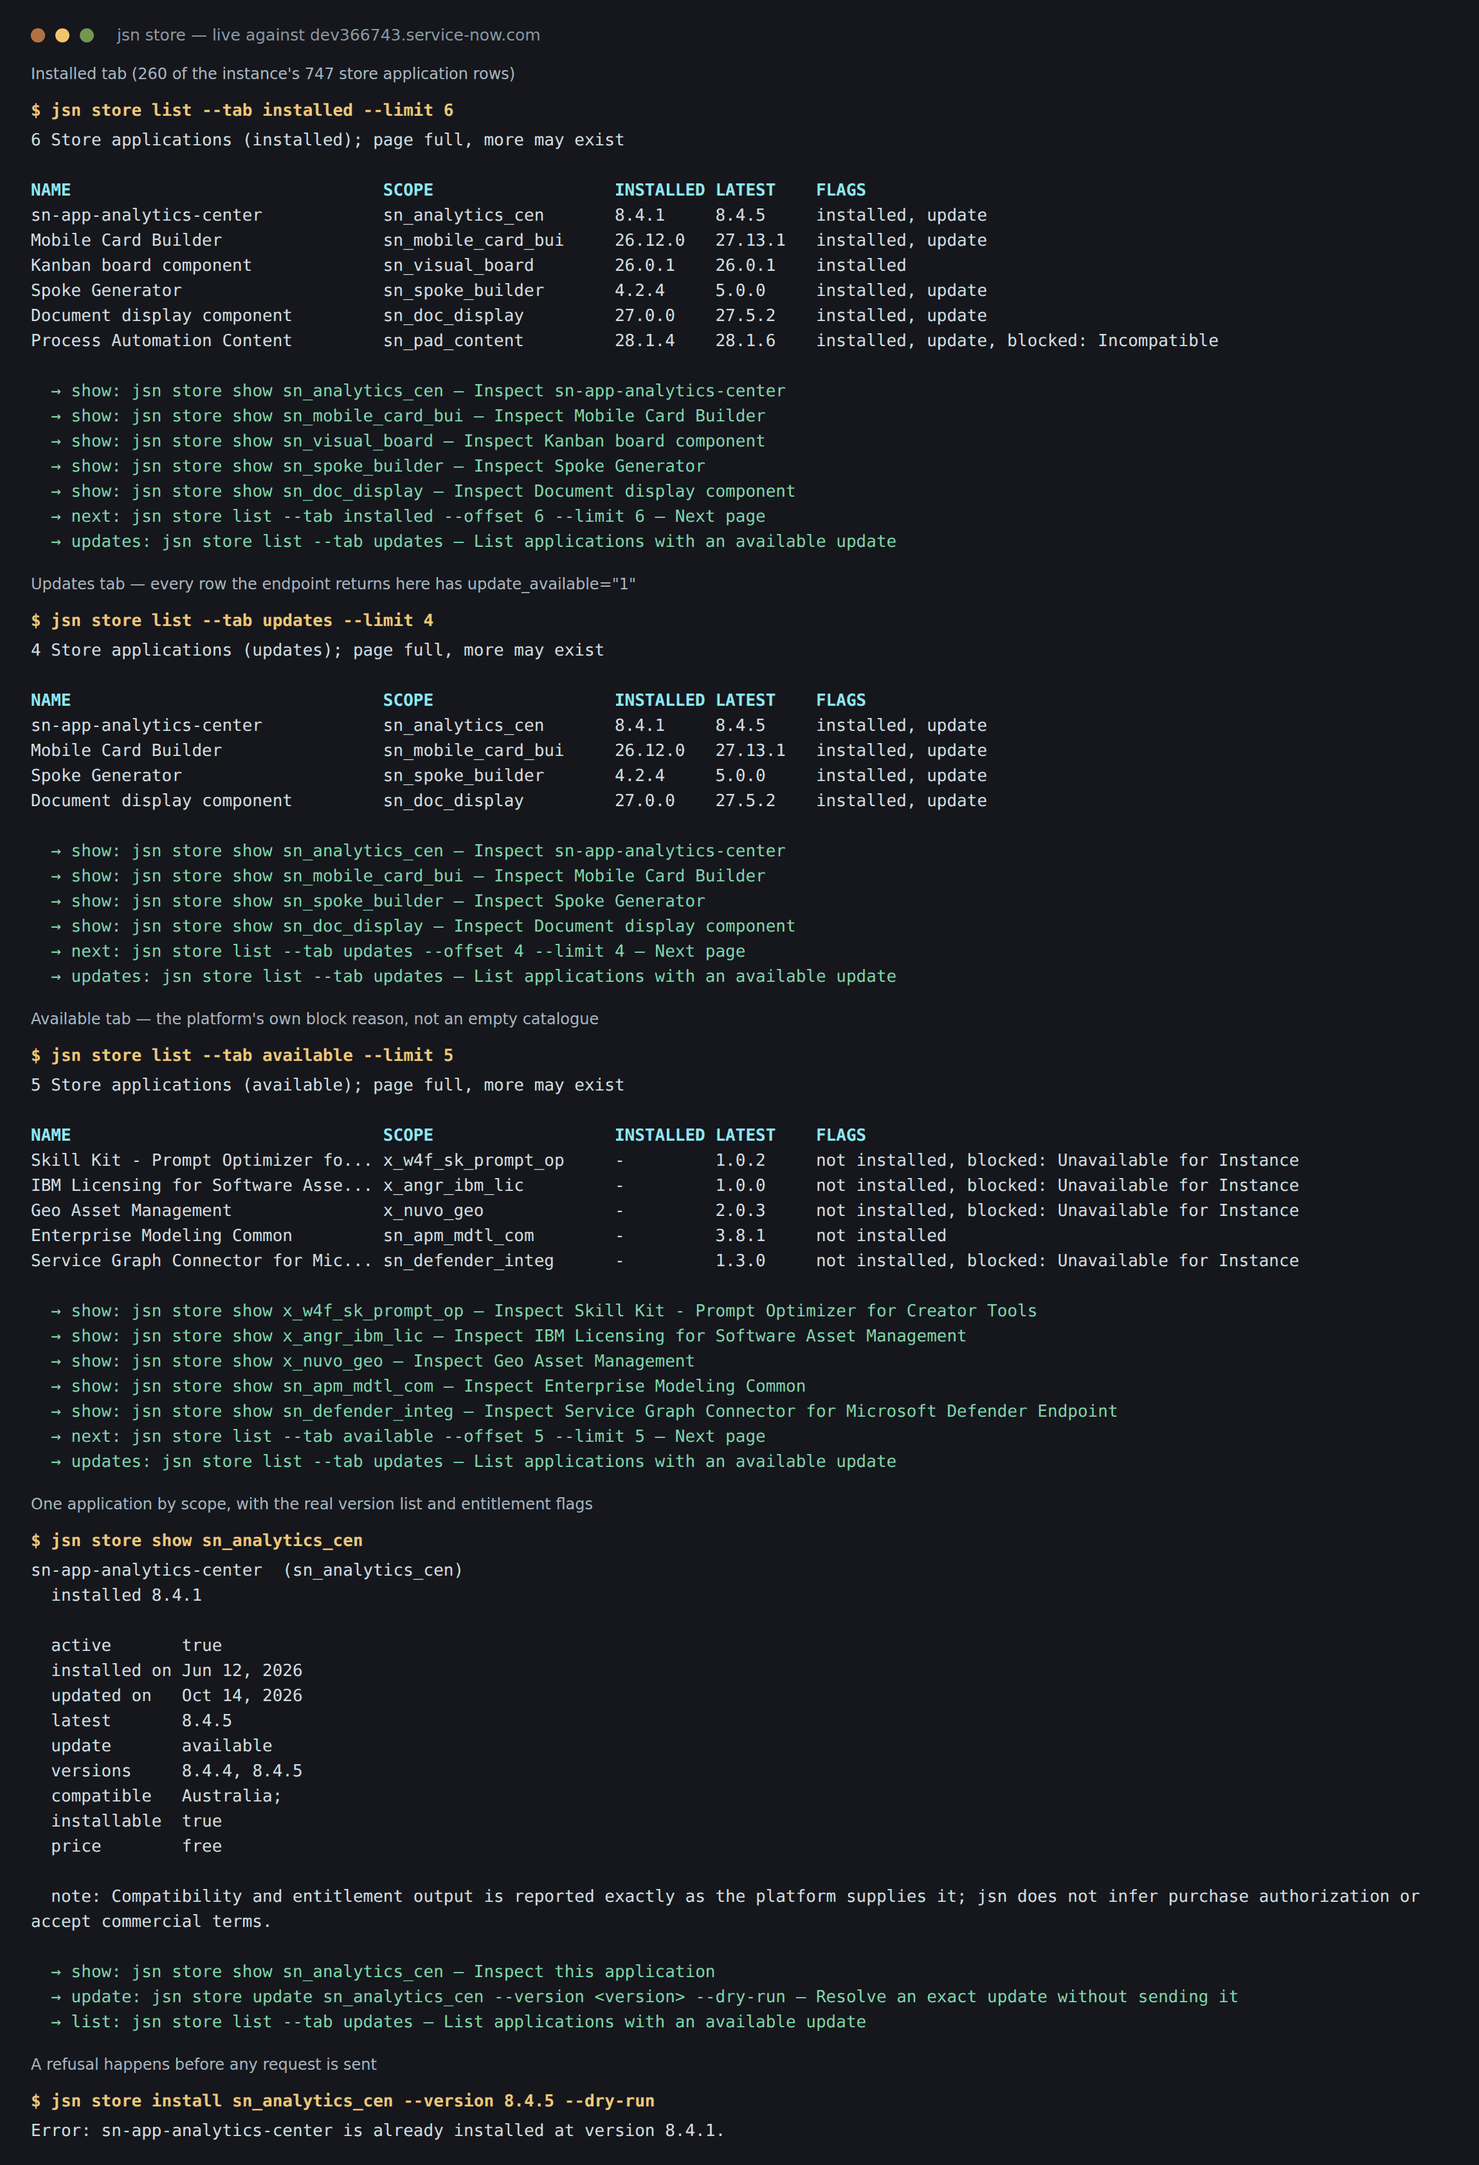
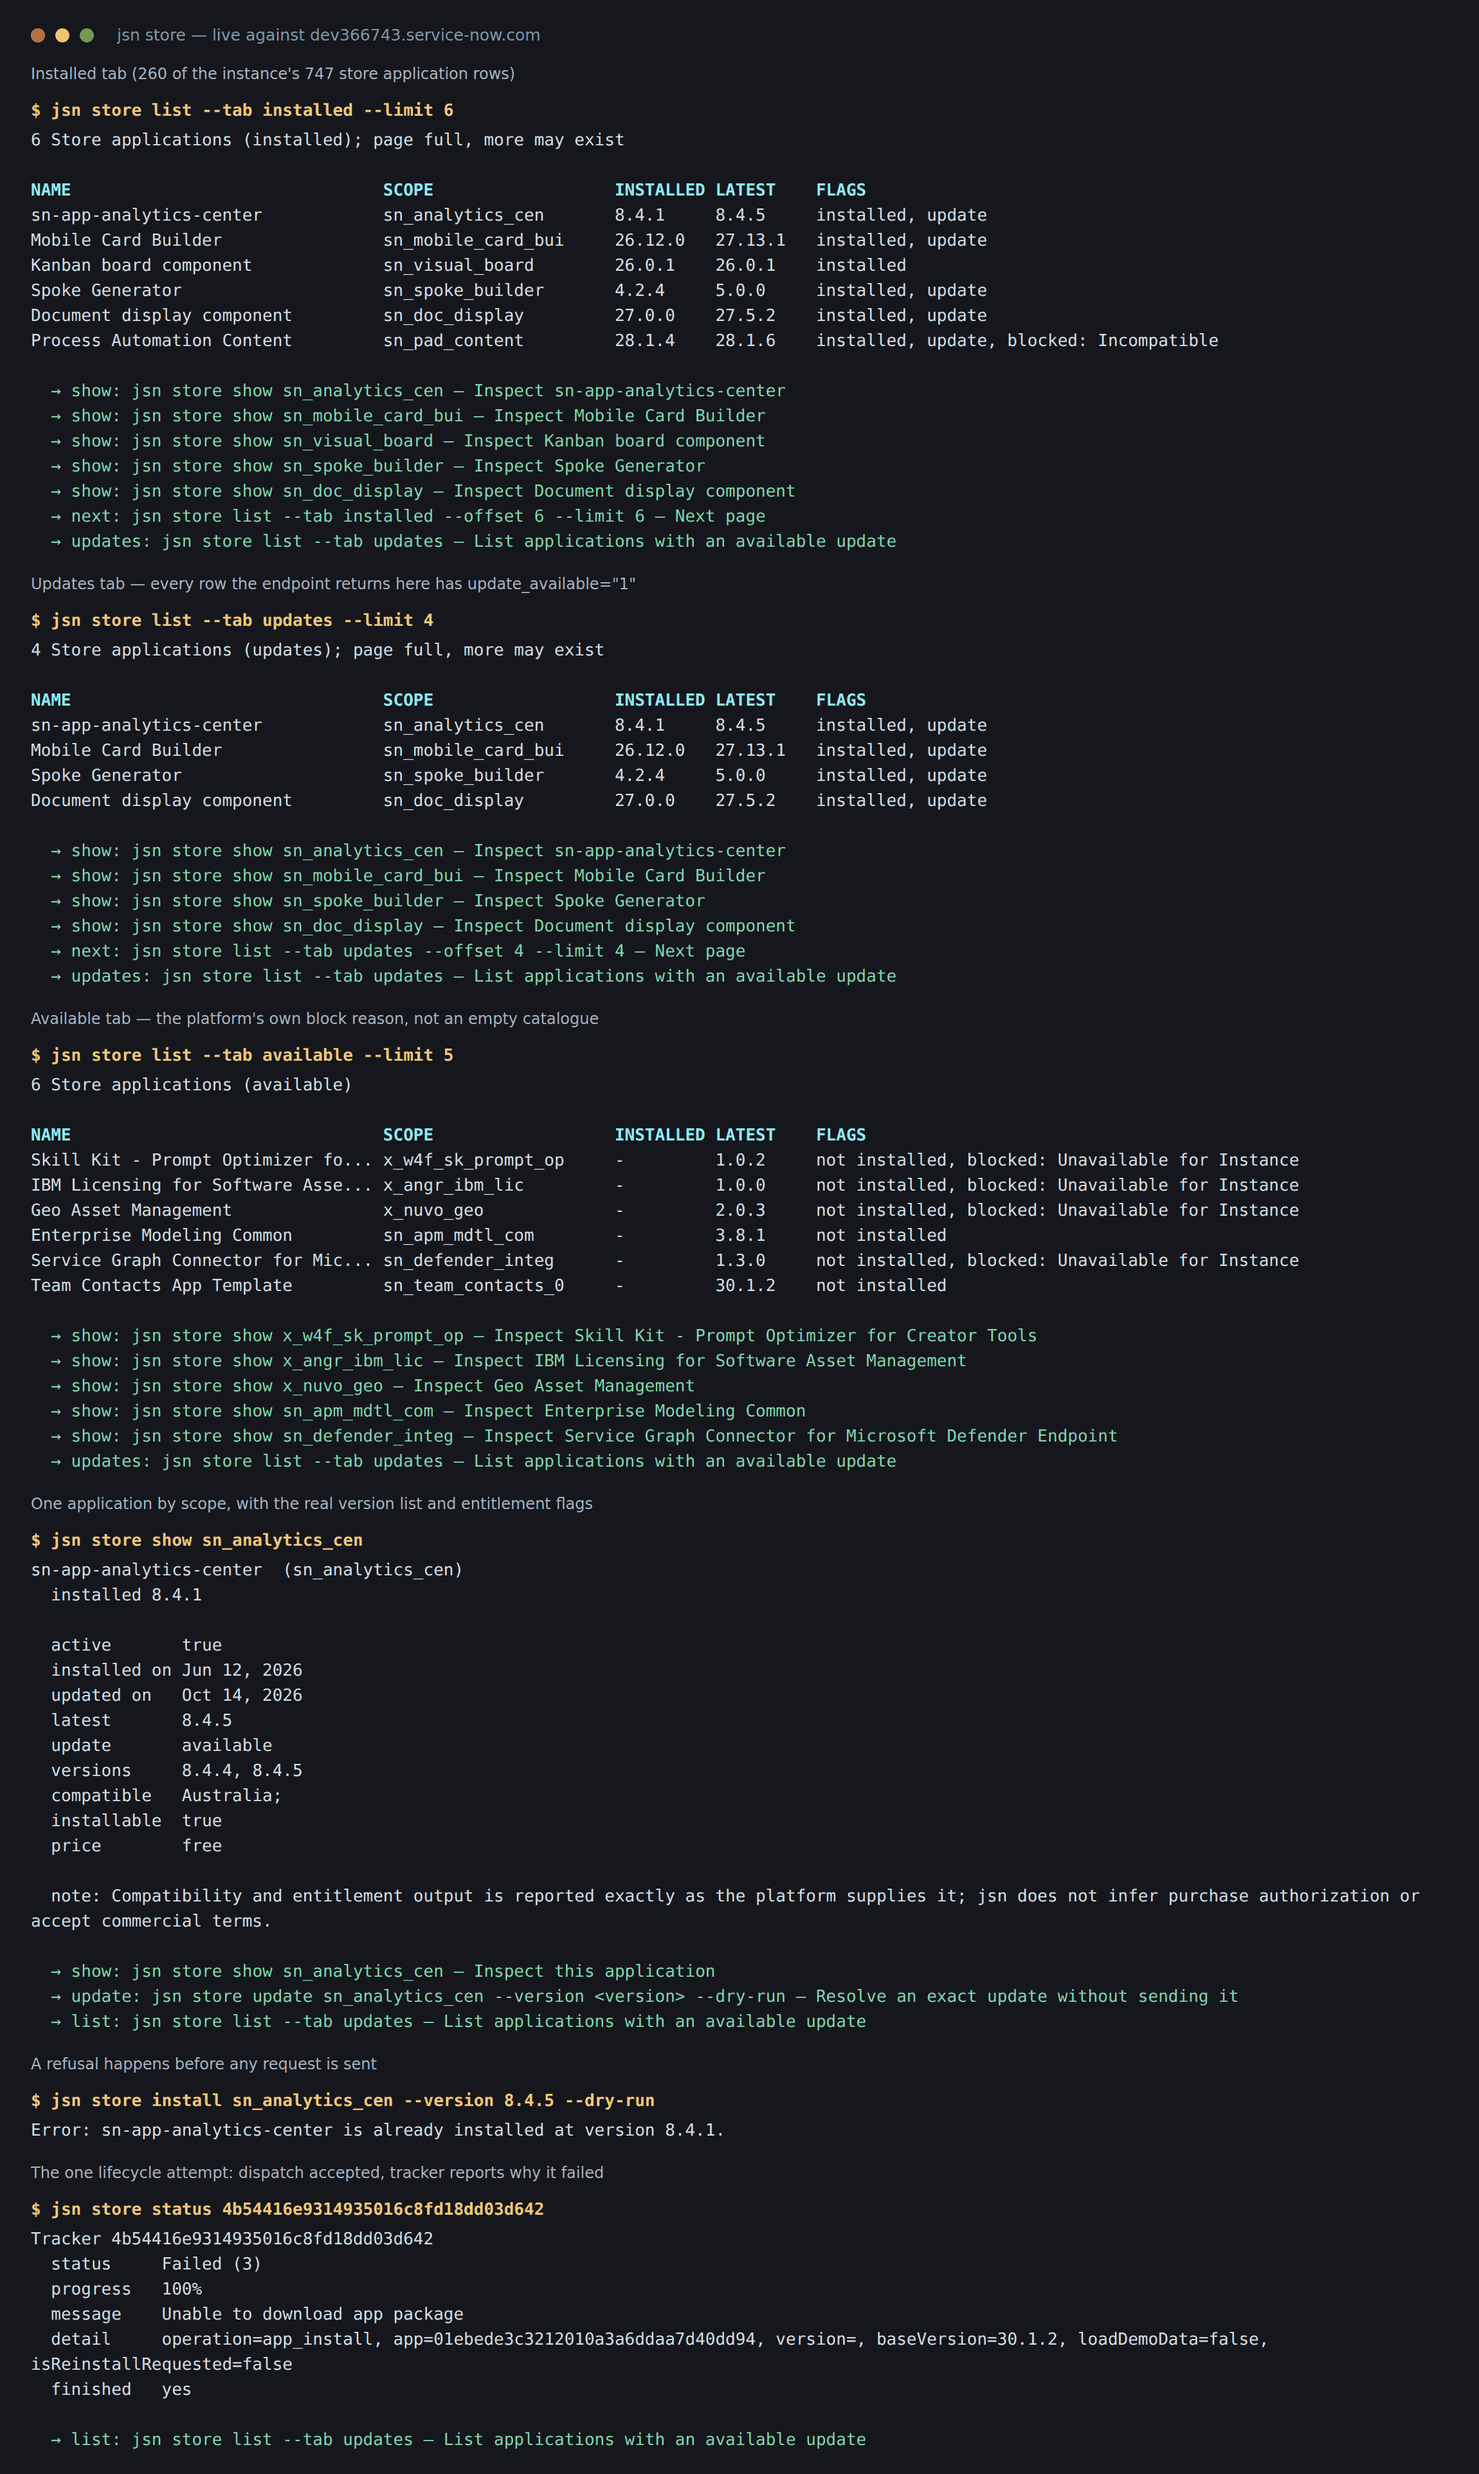
store: report the lifecycle attempt and why a tracker failed
One approved install was run against dev366743: Team Contacts App Template
30.1.2. The dispatch was accepted (GET /appmanager/app/install with app_id,
version and load_demo_data) and returned tracker
4b54416e9314935016c8fd18dd03d642. The tracker then failed:

  status=3  status_label=Failed  percent_complete=100  error=""
  status_message=Unable to download app package
  status_detail=operation=app_install, app=01ebede3..., version=,
                 baseVersion=30.1.2, loadDemoData=false

The request shape reached the install plan for the right application; the
instance could not download the package, and nothing was installed.

That run exposed two reporting defects:

- The failure surfaced as "failed: Failed." because the handler preferred
  status_label over status_message. The reason is the whole point of the
  message; it is now preferred.
- status_detail, which names the operation and the exact app and version the
  tracker acted on, was read from the response and thrown away. It is now part
  of store status, and the tracker has a styled view (status, progress,
  message, detail) instead of a single summary line.

Docs record the attempt and keep a successful install/update marked unverified.

diff --git a/cli/src/commands/store.js b/cli/src/commands/store.js
@@ -88,6 +88,20 @@ function styledApplication(data) {
   return lines.join('\n');
 }
 
+function styledTracker(data) {
+  const line = (label, value) => `  ${label.padEnd(10)} ${value}`;
+  const lines = [
+    `Tracker ${data.tracker_id}`,
+    line('status', `${data.status_label || data.status || 'unknown'}${data.status ? ` (${data.status})` : ''}`),
+    line('progress', data.percent_complete === null ? 'unknown' : `${data.percent_complete}%`),
+  ];
+  if (data.status_message) lines.push(line('message', data.status_message));
+  if (data.error) lines.push(line('error', data.error));
+  if (data.status_detail) lines.push(line('detail', data.status_detail));
+  lines.push(line('finished', data.terminal ? 'yes' : 'no'));
+  return lines.join('\n');
+}
+
 function report(app, argv, data, options) {
   const connection = argv.profile ? ` --profile ${quoteShellArg(argv.profile)}`
     : argv.instance ? ` --instance ${quoteShellArg(argv.instance)}` : '';
@@ -183,7 +197,9 @@ async function runLifecycle(argv, app, operation) {
   }
   if (!data.succeeded) {
     throw new AppError('store_operation_failed',
-      `${operation === 'install' ? 'Installation' : 'Update'} ${started.tracker_id} failed: ${data.status_label || data.status_message || data.error || 'the tracker reported failure'}.`,
+      // status_label is the tracker's generic verdict ("Failed"); status_message
+      // carries the reason ("Unable to download app package"). Report the reason.
+      `${operation === 'install' ? 'Installation' : 'Update'} ${started.tracker_id} failed: ${data.status_message || data.status_label || data.error || 'the tracker reported failure'}.`,
       `Read jsn store status ${started.tracker_id} for progress and the application's upgrade history. The application may be partially installed; do not resubmit automatically.`);
   }
   // Readback can lag the tracker. Reuse the operator's poll interval, capped at
@@ -258,8 +274,9 @@ export function storeCmd(wrap) {
         builder: p => p.positional('tracker', { type: 'string', describe: 'Tracker sys_id reported by install/update' }),
         handler: wrap(async (argv, app) => {
           const data = await operationStatus(app.sdk, argv.tracker);
+          attachFormatted(data, styledTracker(data));
           report(app, argv, data, {
-            summary: `Tracker ${data.tracker_id}: ${data.status_label || data.status || 'unknown'}${data.percent_complete === null ? '' : ` ${data.percent_complete}%`}${data.terminal ? '' : ' (running)'}${data.error ? ` — ${data.error}` : ''}`,
+            summary: `Tracker ${data.tracker_id}: ${data.status_label || data.status || 'unknown'}${data.percent_complete === null ? '' : ` ${data.percent_complete}%`}${data.terminal ? '' : ' (running)'}${data.status_message ? ` — ${data.status_message}` : data.error ? ` — ${data.error}` : ''}`,
             breadcrumbs: [
               ...(data.terminal ? [] : [hint('status', `jsn store status ${data.tracker_id}`, 'Read progress again')]),
               hint('list', 'jsn store list --tab updates', 'List applications with an available update'),

diff --git a/cli/test/store.test.js b/cli/test/store.test.js
@@ -410,6 +410,39 @@ test('a failed tracker reports the failure and keeps the tracker id', async () =
     error => error.code === 'store_operation_failed' && error.message.includes(TRACKER) && error.hint.includes(TRACKER));
 });
 
+test('a failed tracker reports the reason, not its generic label', async () => {
+  // Live failure from dev366743: status=3, status_label=Failed,
+  // status_message="Unable to download app package". Reporting the label told
+  // the operator nothing.
+  const f = fixture({
+    progress: [{
+      percent_complete: 100, status: '3', status_label: 'Failed',
+      status_message: 'Unable to download app package',
+      status_detail: 'operation=app_install, app=aaaa, version=, baseVersion=2.0.0',
+    }],
+  });
+  f.rows('sys_store_app').push({ sys_id: APP, name: 'Demo App', scope: 'x_demo_app', version: '' });
+  await assert.rejects(f.run(['install', 'x_demo_app', '--version', '2.0.0', '--force', '--wait']),
+    error => error.code === 'store_operation_failed' && /Unable to download app package/.test(error.message));
+  const status = await operationStatus(f.sdk, TRACKER);
+  assert.equal(status.status_detail, 'operation=app_install, app=aaaa, version=, baseVersion=2.0.0');
+});
+
+test('the human view of a tracker reports the reason and the operation detail', async () => {
+  const f = fixture({
+    progress: [{
+      percent_complete: 100, status: '3', status_label: 'Failed',
+      status_message: 'Unable to download app package',
+      status_detail: 'operation=app_install, baseVersion=2.0.0',
+    }],
+  });
+  await f.run(['status', TRACKER]);
+  const { data } = f.output[0];
+  assert.match(data._formatted, /Unable to download app package/);
+  assert.match(data._formatted, /operation=app_install, baseVersion=2\.0\.0/);
+  assert.match(data._formatted, /progress {3}100%/);
+});
+
 test('an unreadable installed record yields unverified, not success', async () => {
   const f = fixture();
   f.rows('sys_store_app').push({ sys_id: APP, name: 'Demo App', scope: 'x_demo_app', version: '' });

diff --git a/cli/src/store.js b/cli/src/store.js
@@ -509,12 +509,17 @@ export async function operationStatus(sdk, trackerId) {
   const error = storeText(result, 'error');
   const label = storeText(result, 'status_label');
   const message = storeText(result, 'status_message');
+  // The tracker's own detail line names the operation and the exact app and
+  // version it acted on; it is the only place a failed submission says what it
+  // tried to do.
+  const detail = storeText(result, 'status_detail');
   const terminal = (Number.isFinite(percent) && percent >= 100) || status === '3' || Boolean(error);
   return {
     tracker_id: id,
     status,
     status_label: label || null,
     status_message: message || null,
+    status_detail: detail || null,
     percent_complete: Number.isFinite(percent) ? percent : null,
     error: error || null,
     terminal,

diff --git a/docs/store-applications.md b/docs/store-applications.md
@@ -170,12 +170,46 @@ does not cancel or resubmit. A submission without a usable tracker id fails with
 `jsn store status <tracker-id>` reads the tracker directly: `status`,
 `status_label`, `status_message`, `percent_complete`, `terminal`, `succeeded`.
 
+## The one lifecycle attempt, and what it proved
+
+`jsn store install sn_team_contacts_0 --version 30.1.2 --wait` was run once
+against the same instance. The dispatch was accepted:
+
+```
+GET /api/sn_appclient/appmanager/app/install?app_id=01ebede3c3212010a3a6ddaa7d40dd94
+    &version=30.1.2&load_demo_data=false
+-> tracker 4b54416e9314935016c8fd18dd03d642
+```
+
+The tracker then failed, and its detail names the operation it ran:
+
+```
+status=3  status_label=Failed  percent_complete=100  error=""
+status_message=Unable to download app package
+status_detail=operation=app_install, app=01ebede3c3212010a3a6ddaa7d40dd94,
+               version=, baseVersion=30.1.2, loadDemoData=false,
+               isReinstallRequested=false
+```
+
+So the request shape is accepted: `GET`, `app_id`, `version` and
+`load_demo_data` all reach the install plan for the right application. The
+failure is the instance's own package download, not the request. Nothing was
+installed — `sys_store_app` shows a placeholder row for the scope with an empty
+`version` and `active: false`.
+
+Two things this changed:
+
+- `status_detail` is now part of `store status` output; it is the only place a
+  failed submission says what it tried to do.
+- A failed tracker now reports `status_message`, not just the generic
+  `status_label`: the command used to say `failed: Failed.` and hide
+  `Unable to download app package`.
+
 ## What is still unverified
 
-1. That `GET /app/install` and `GET /app/update` accept exactly
-   `app_id`/`version`/`load_demo_data`, and what a real submission returns — the
-   operations are registered on the live instance, but the request has not been
-   sent.
+1. A **successful** install or update. One attempt was made and the instance
+   failed to download the package; the request shape reached the plan, but the
+   dispatch-to-completion path has never completed.
 2. That a successful tracker plus a matching `sys_store_app.version` readback is
    sufficient proof of installation on supported ServiceNow versions.
 3. Repair/reinstall behaviour, which is deliberately not implemented here. There
